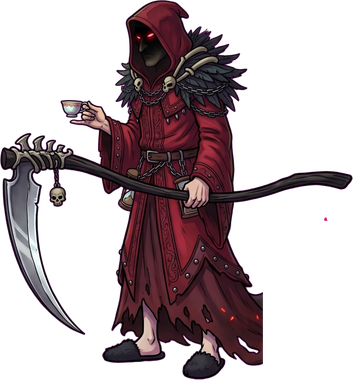
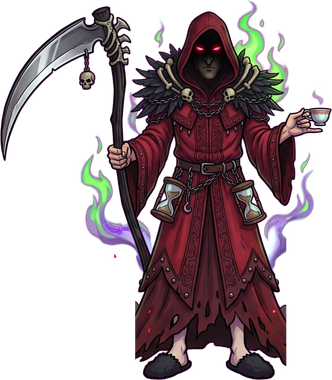
Mortimer önden görünüşle balkonda büyük duruyor (ekrana/aşağı bakar); yer ve boy MORT_AT / MORT_H

diff --git a/sinir-kalesi/js/game.js b/sinir-kalesi/js/game.js
@@ -3150,11 +3150,13 @@ function raiseMinion(e, delay = 0) {
   for (let i = 0; i < 8; i++) emit(G.parts, { kind: 'glow', add: true, x: e.x + rand(-8, 8), y: e.y - rand(0, 20), vy: -rand(20, 45), col: '140,255,120', s0: rand(2, 4), s1: 0.5, life: rand(0.5, 0.9) });
 }
 // Mortimer'ın balkondaki ayak noktası (kule görselinin balkonu)
+// Mortimer kale görselinde balkonun ön kenarına basar (görsel oranı) ve kale genişliğine göre büyük durur
+const MORT_AT = [0.66, 0.5], MORT_H = 62;
 function mortimerPoint() {
   const c = G.castle, im = castleSprite();
   if (!im) return { x: c.x, y: c.y - 60 };
   const cp = castlePlace(c.x, c.y, im), h = cp.w * im.height / im.width;
-  return { x: cp.x - cp.w / 2 + 0.69 * cp.w, y: cp.y - h + 0.425 * h };
+  return { x: cp.x - cp.w / 2 + MORT_AT[0] * cp.w, y: cp.y - h + MORT_AT[1] * h };
 }
 // büyü düğmesi simgeleri: diriltme = yerden kalkan iskelet, korku = çığlık atan hayalet
 function drawNecroGlyph(id, r) {
@@ -3185,22 +3187,19 @@ function drawNecroGlyph(id, r) {
 function drawMortimer() {
   const im = spr('mortimer');
   if (!im) return;
-  const m = mortimerPoint(), hgt = 46, k = G.mortCast > 0 ? Math.sin(clamp(1 - G.mortCast / 0.9, 0, 1) * Math.PI) : 0;
-  const bob = Math.sin(time * 1.6) * 0.5;
-  // yola dönük: kaleye giren yolun son parçası hangi yandan geliyorsa o yana bakar (görsel sola bakıyor)
-  const P = G.lv.paths[0], a0 = P[P.length - 2], a1 = P[P.length - 1], face = a0[0] <= a1[0] ? 1 : -1;
+  const m = mortimerPoint(), hgt = MORT_H, k = G.mortCast > 0 ? Math.sin(clamp(1 - G.mortCast / 0.9, 0, 1) * Math.PI) : 0;
+  const bob = Math.sin(time * 1.6) * 0.5, face = 1; // önden görünüş: balkondan ekrana/aşağı bakar, aynalanmaz
   // arkasında mor-yeşil büyü halesi: kulenin üstünde belirgin dursun
   ctx.save(); ctx.globalCompositeOperation = 'lighter';
   glow(ctx, m.x, m.y - hgt * 0.5, hgt * 0.75, '150,90,255', 0.22 + 0.25 * k + Math.sin(time * 2) * 0.05);
   glow(ctx, m.x, m.y - hgt * 0.5, hgt * 0.45, '120,255,140', 0.12 + 0.3 * k);
   ctx.restore();
   ctx.save(); ctx.translate(m.x, m.y + bob);
-  ctx.scale(face, 1); // görsel sola bakıyor: düşmanlar soldan geliyorsa olduğu gibi, sağdan geliyorsa aynalanır
-  ctx.rotate(-0.12 * k); ctx.scale(1 - 0.03 * k, 1 + 0.08 * k);
+  ctx.scale(1 + 0.04 * k, 1 + 0.08 * k); // büyüde göğsünü kabartıp dikleşir
   drawSprite(ctx, im, 0, 0, hgt * im.width / im.height);
   ctx.restore();
   // tırpandaki kafatası: büyü yaparken parlar; diriltme sürerken yeşil nabız
-  const sx = m.x - face * hgt * im.width / im.height * 0.34, sy = m.y - hgt * 0.47 - 4 * k; // tırpandan sarkan kafatası
+  const sx = m.x - face * hgt * im.width / im.height * 0.24, sy = m.y + bob - hgt * 0.8 * (1 + 0.08 * k); // tırpandan sarkan kafatası
   ctx.save(); ctx.globalCompositeOperation = 'lighter';
   glow(ctx, sx, sy, 8 + 14 * k + (G.raiseT > 0 ? 4 + Math.sin(time * 8) * 2 : 0), '120,255,140', 0.35 + 0.6 * k + (G.raiseT > 0 ? 0.25 : 0));
   ctx.restore();

diff --git a/sinir-kalesi/index.html b/sinir-kalesi/index.html
@@ -13,7 +13,7 @@
 <canvas id="game" aria-label="Sınır Kalesi oyun alanı"></canvas>
 <script>
   // Sürüm damgası: her yayında artırılır; tarayıcı eski önbellek kopyasını kullanmaz (js ve görseller).
-  window.SURUM = '52';
+  window.SURUM = '53';
   for (const f of ['js/data.js', 'js/game.js']) document.write('<script src="' + f + '?v=' + window.SURUM + '"><\/script>');
 </script>
 

diff --git a/sinir-kalesi/yayin.html b/sinir-kalesi/yayin.html
@@ -13,6 +13,6 @@
 <canvas id="game" aria-label="Sınır Kalesi oyun alanı"></canvas>
 <script>
   // Sürüm damgası: her yayında artırılır; tarayıcı eski önbellek kopyasını kullanmaz (js ve görseller).
-  window.SURUM = '52';
+  window.SURUM = '53';
   for (const f of ['js/data.js', 'js/game.js']) document.write('<script src="' + f + '?v=' + window.SURUM + '"><\/script>');
 </script>

diff --git a/varliklar/nm_isle.py b/varliklar/nm_isle.py
@@ -29,7 +29,7 @@ SHEETS = [
     ('nm_dusman_2.jpg', ['enemy_heavy', 'enemy_cavalry', 'enemy_priest', 'enemy_gloriosus'], 'unit'),
     ('nm_kusatma.jpg', ['enemy_ram', 'enemy_catapult'], 'unit'),
     ('nm_komutanlar.jpg', ['hero_vladrik', None, None, None], 'unit'),  # eski Mortimer (4.) artık kullanılmıyor
-    ('nm_mortimer.jpg', [None, 'mortimer'], 'unit'),  # azrail Mortimer: sola bakan 3/4 görünüş
+    ('nm_mortimer.jpg', ['mortimer', None], 'unit'),  # azrail Mortimer: önden görünüş (balkondan ekrana/aşağı bakar)
     ('nm_banshee.jpg', ['hero_wren'], 'unit'),
     ('nm_dekor.jpg', ['nm_tree_1', 'nm_tree_2', 'nm_tree_3', 'nm_tree_4',
                       'nm_tomb_1', 'nm_tomb_2', 'nm_tomb_3', 'nm_bones', 'nm_shroom', 'nm_bush',
@@ -41,7 +41,7 @@ ERASE = {
     'enemy_priest': [(0, 0, 1070, 1116), (1330, 0, 2000, 592), (1475, 0, 2000, 1116)],
     'enemy_gloriosus': [(0, 0, 1330, 1116), (1330, 596, 1478, 745)],
     'hero_vladrik': [(522, 230, 800, 600)],
-    'mortimer': [(1720, 680, 2000, 1116)],  # sağa savrulan duman kuyruğu (görseli genişletiyor)
+    'mortimer': [(0, 760, 400, 1116), (800, 700, 1000, 1116)],  # eteğin iki yanına savrulan duman (görseli genişletiyor)
 }
 
 
